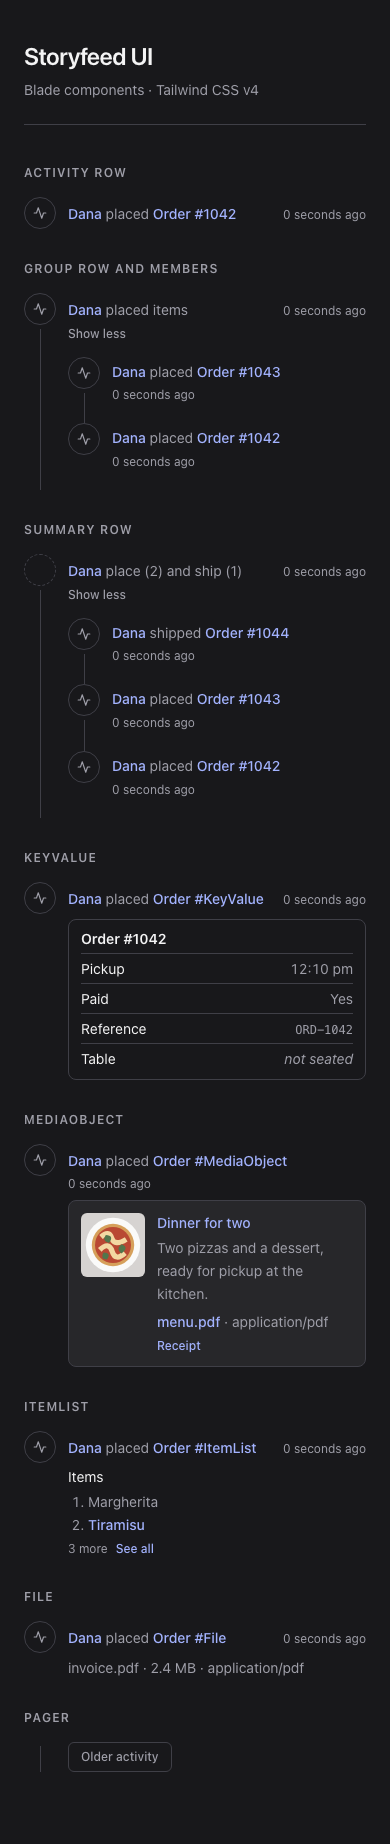
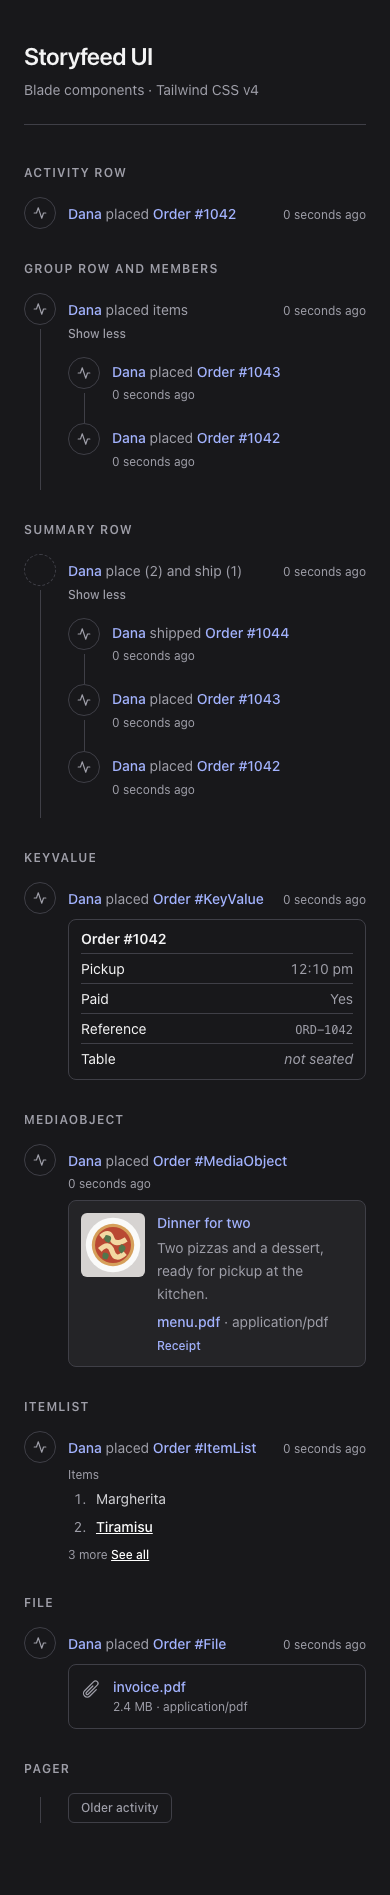
Refine Tailwind body cards and attachment rows

diff --git a/workbench/app.css b/workbench/app.css
@@ -1,3 +1,4 @@
 @import "tailwindcss" source(none);
 @source "../resources/views";
+@plugin "@tailwindcss/typography";
 @source "./page.blade.php";

diff --git a/tests/Feature/BodyTest.php b/tests/Feature/BodyTest.php
@@ -13,6 +13,7 @@ use Storyfeed\Facades\Storyfeed;
 use Storyfeed\FeedImage;
 use Storyfeed\FeedLink;
 use Storyfeed\FeedResource;
+use Storyfeed\Support\Entity;
 use Storyfeed\Support\FeedItem;
 use Storyfeed\Ui\Tests\Fixtures\Order;
 use Storyfeed\Ui\Tests\Fixtures\User;
@@ -83,10 +84,31 @@ it('draws a change as before and after', function () {
     );
 });
 
-it('draws a file\'s name, size and type, leaving out a name the headline says', function () {
+it('draws a file attachment with its resolved name link and a separate metadata line', function () {
     expect(render_bodies([File::make(2_516_582, 'application/pdf', 'invoice.pdf'), File::make(512, name: 'Order #1042')]))
-        ->toContain('<p>invoice.pdf · 2.4 MB · application/pdf</p>')
+        ->toContain('<span aria-hidden="true"><svg')
+        ->toContain('<p> <a href="/orders/1" target="_blank">invoice.pdf</a> </p>')
+        ->toContain('<p>2.4 MB · application/pdf</p>')
+        ->toContain('<p> <a href="/orders/1" target="_blank">Order #1042</a> </p>')
         ->toContain('<p>512 B</p>');
+});
+
+it('renders file names without a URL as escaped text and omits absent metadata', function () {
+    $html = render_blade('<x-storyfeed::body.file :body="$body" :entity="$entity" />', [
+        'body' => ['name' => '<invoice>.pdf', 'href' => '/not-from-the-body'],
+        'entity' => Entity::of(['label' => 'Invoice']),
+    ]);
+
+    expect($html)->toContain('<p> &lt;invoice&gt;.pdf </p>')
+        ->not->toContain('<a', '/not-from-the-body', ' · ');
+});
+
+it('uses the entity label when a file name is absent and omits a completely empty file', function () {
+    expect(render_blade('<x-storyfeed::body.file :body="$body" :entity="$entity" />', [
+        'body' => ['size' => 0],
+        'entity' => Entity::of(['label' => 'Invoice']),
+    ]))->toContain('<p> Invoice </p>', '<p>0 B</p>')
+        ->and(render_blade('<x-storyfeed::body.file :body="[]" />'))->toBe('');
 });
 
 it('draws an item list, numbered when ordered, with what was not sent', function () {
@@ -159,4 +181,10 @@ it('draws nothing for a malformed or app-owned body, and an app can add a compon
 
     expect($render())->toContain('<div data-storyfeed-body> <p>plan.pdf</p> </div>')
         ->and(substr_count($render(), 'data-storyfeed-body'))->toBe(1);
+});
+
+it('renders an unordered item list with plain list semantics', function () {
+    expect(render_bodies(ItemList::make(['Margherita', 'Tiramisu'])))
+        ->toContain('<ul> <li> Margherita </li> <li> Tiramisu </li> </ul>')
+        ->not->toContain('<ol>');
 });

diff --git a/resources/views/components/body/file.blade.php b/resources/views/components/body/file.blade.php
@@ -1,6 +1,6 @@
 {{--
-    Storyfeed/Body/File: what a file is and how big. The name is left out when
-    the headline already says it.
+    Storyfeed/Body/File: an attachment name with its size and media type.
+    The entity supplies the resolved URL; the body stores no URL.
 --}}
 @props(['body', 'entity' => null])
 
@@ -20,15 +20,30 @@
         $size = ($value >= 10 || $unit === 0 ? round($value) : number_format($value, 1)).' '.$units[$unit];
     }
 
-    $name = $body['name'] ?? null;
-
-    $parts = collect([
-        $name !== null && $name !== $entity?->label() ? $name : null,
+    $name = $body['name'] ?? $entity?->label();
+    $url = $entity?->url();
+    $details = collect([
         is_string($size) ? $size : null,
         $body['mediaType'] ?? null,
     ])->filter();
 @endphp
 
-@if ($parts->isNotEmpty())
-    <p {{ $attributes->class('m-0 text-sm text-zinc-600 dark:text-zinc-400') }}>{{ $parts->implode(' · ') }}</p>
+@if (filled($name) || $details->isNotEmpty())
+    <div {{ $attributes->class('flex max-w-sm items-start gap-3 rounded-lg border border-zinc-200 p-3 dark:border-zinc-700') }}>
+        <span class="mt-0.5 shrink-0 text-zinc-500 dark:text-zinc-400" aria-hidden="true">@include('storyfeed::icons.paper-clip')</span>
+        <div class="min-w-0 flex-1 [overflow-wrap:anywhere]">
+            @if (filled($name))
+                <p class="m-0 text-sm font-medium text-zinc-900 dark:text-zinc-100">
+                    @if ($url)
+                        <a {{ (new \Illuminate\View\ComponentAttributeBag($entity->attributes()))->merge(['href' => $url])->class('text-indigo-700 underline-offset-2 hover:underline focus-visible:outline-2 focus-visible:outline-offset-2 focus-visible:outline-indigo-500 dark:text-indigo-300') }}>{{ $name }}</a>
+                    @else
+                        {{ $name }}
+                    @endif
+                </p>
+            @endif
+            @if ($details->isNotEmpty())
+                <p class="m-0 text-xs leading-relaxed text-zinc-600 dark:text-zinc-400">{{ $details->implode(' · ') }}</p>
+            @endif
+        </div>
+    </div>
 @endif

diff --git a/resources/views/components/body/item-list.blade.php b/resources/views/components/body/item-list.blade.php
@@ -14,16 +14,16 @@
 @endphp
 
 @if ($items->isNotEmpty())
-    <figure {{ $attributes->class('m-0') }}>
+    <figure {{ $attributes->class('prose prose-sm prose-zinc dark:prose-invert') }}>
         @if (filled($body['title'] ?? null))
-            <figcaption class="mb-1 text-sm text-zinc-900 dark:text-zinc-100">{{ $body['title'] }}</figcaption>
+            <figcaption>{{ $body['title'] }}</figcaption>
         @endif
 
-        <{{ $tag }} @class(['m-0 pl-5 text-sm leading-relaxed', 'list-decimal' => $tag === 'ol', 'list-disc' => $tag === 'ul'])>
+        <{{ $tag }}>
             @foreach ($items as $item)
-                <li class="m-0">
+                <li>
                     @if (is_array($item) && filled($item['href'] ?? null))
-                        <a href="{{ $item['href'] }}" class="font-medium text-indigo-700 underline-offset-2 hover:underline focus-visible:outline-2 focus-visible:outline-offset-2 focus-visible:outline-indigo-500 dark:text-indigo-300">{{ $item['label'] }}</a>
+                        <a href="{{ $item['href'] }}">{{ $item['label'] }}</a>
                     @else
                         {{ is_string($item) ? $item : $item['label'] }}
                     @endif
@@ -32,12 +32,12 @@
         </{{ $tag }}>
 
         @if ($remaining > 0 || $more !== null)
-            <figcaption class="mt-1 flex gap-2 text-xs text-zinc-600 dark:text-zinc-400">
+            <figcaption>
                 @if ($remaining > 0)
                     <span>{{ __(':count more', ['count' => $remaining]) }}</span>
                 @endif
                 @if ($more !== null)
-                    <a href="{{ $more['href'] }}" class="font-medium text-indigo-700 underline-offset-2 hover:underline focus-visible:outline-2 focus-visible:outline-offset-2 focus-visible:outline-indigo-500 dark:text-indigo-300">{{ $more['label'] ?? $more['href'] }}</a>
+                    <a href="{{ $more['href'] }}">{{ $more['label'] ?? $more['href'] }}</a>
                 @endif
             </figcaption>
         @endif

diff --git a/resources/views/components/body/media-object.blade.php b/resources/views/components/body/media-object.blade.php
@@ -22,7 +22,7 @@
     $attachments = collect($body['attachments'] ?? [])->filter(fn ($file) => is_array($file) && filled($file['href'] ?? null));
 @endphp
 
-<div {{ $attributes->class('mt-1.5 flex min-w-0 max-w-lg items-start gap-3 rounded-lg border border-zinc-200 dark:border-zinc-700 bg-zinc-50 p-3 dark:bg-zinc-800') }}>
+<div {{ $attributes->class('mt-1.5 flex min-w-0 max-w-lg items-start gap-3 rounded-lg border border-zinc-200 dark:border-zinc-700 bg-white/60 p-3 backdrop-blur-sm dark:bg-white/5') }}>
     @if (is_array($picture))
         <div class="w-16 shrink-0 [&>div]:m-0 [&>div]:size-16 [&>div]:rounded-md"><x-storyfeed::media :image="$picture" /></div>
     @endif

diff --git a/resources/views/components/body/key-value.blade.php b/resources/views/components/body/key-value.blade.php
@@ -10,7 +10,7 @@
 @endphp
 
 @if ($rows->isNotEmpty())
-    <figure {{ $attributes->class('m-0 flex max-w-lg flex-col rounded-lg border border-zinc-200 dark:border-zinc-700 px-3 py-1.5 text-sm leading-normal') }}>
+    <figure {{ $attributes->class('m-0 flex max-w-sm flex-col rounded-lg border border-zinc-200 dark:border-zinc-700 px-3 py-1.5 text-sm leading-normal') }}>
         @if (filled($body['title'] ?? null))
             <figcaption class="border-b border-zinc-200 dark:border-zinc-700 pt-0.5 pb-1 font-semibold text-zinc-900 dark:text-zinc-100">{{ $body['title'] }}</figcaption>
         @endif

diff --git a/resources/views/icons/paper-clip.blade.php b/resources/views/icons/paper-clip.blade.php
@@ -1,0 +1,4 @@
+{{-- Heroicons paper-clip (MIT); see licenses/heroicons.txt. --}}
+<svg class="size-5" xmlns="http://www.w3.org/2000/svg" fill="none" viewBox="0 0 24 24" stroke-width="1.5" stroke="currentColor" aria-hidden="true">
+  <path stroke-linecap="round" stroke-linejoin="round" d="m18.375 12.739-7.693 7.693a4.5 4.5 0 0 1-6.364-6.364l10.94-10.94A3 3 0 1 1 19.5 7.372L8.552 18.32m.009-.01-.01.01m5.699-9.941-7.81 7.81a1.5 1.5 0 0 0 2.112 2.13"/>
+</svg>

diff --git a/README.md b/README.md
@@ -35,11 +35,18 @@ composer require storyfeed/ui
 
 The service provider registers itself through package discovery.
 
-Storyfeed UI uses Tailwind CSS v4. Add the package's views to the sources in
-your application's `resources/css/app.css` file:
+Storyfeed UI uses Tailwind CSS v4 and its Typography plugin. Install the plugin:
+
+```bash
+npm install -D @tailwindcss/typography
+```
+
+Register the plugin and the package's views in your application's
+`resources/css/app.css` file:
 
 ```css
 @source "../../vendor/storyfeed/ui/resources/views";
+@plugin "@tailwindcss/typography";
 ```
 
 Compile your application's CSS with `npm run build`. Your layout must load
@@ -105,7 +112,8 @@ and indigo for links. To change these styles, publish the views and edit their
 utility classes. You may also customize Tailwind's existing theme variables,
 such as `--color-indigo-700` and `--color-indigo-300`, in your application's
 `@theme` block. These changes apply to every component using those colours.
-The kit defines no additional theme variables.
+The kit defines no additional theme variables. Item lists use the Typography
+plugin's `prose` defaults.
 
 The components include `dark:` variants and follow your application's
 [Tailwind dark mode configuration](https://tailwindcss.com/docs/dark-mode).
@@ -142,3 +150,8 @@ The kit's own words, such as "Older activity" and "Show all :count", are plain
 ## Licence
 
 MIT. See [LICENSE.md](LICENSE.md).
+
+The paperclip icon is from [Heroicons](https://github.com/tailwindlabs/heroicons),
+copyright Tailwind Labs, Inc., used under the MIT licence. The full notice is
+included in [licenses/heroicons.txt](licenses/heroicons.txt). The attachment row
+layout is original work.

diff --git a/workbench/README.md b/workbench/README.md
@@ -1,6 +1,6 @@
 # Tailwind Workbench
 
-Render the package's Blade components inside Testbench and compile their Tailwind CSS:
+Render the package's Blade components inside Testbench and compile their Tailwind CSS with the Typography plugin:
 
 ```bash
 composer install
@@ -14,6 +14,6 @@ The page is written to `build/workbench/index.html`. The screenshot command star
 
 The page uses Tailwind's default media-query dark mode. Applications may configure their own `dark` variant. No compiled CSS ships with the package. Workbench files and Node tooling are excluded from Composer distribution archives.
 
-The layout and sample SVG are original work. No Tailwind Plus markup, templates, or class lists were used.
+The layout and sample meal SVG are original work. The paperclip icon is from Heroicons (MIT); see the root README and `licenses/heroicons.txt`. No Tailwind Plus markup, templates, or class lists were used.
 
 Stable selectors are `data-sf-intent` and `data-sf-glyph` on icons, `data-storyfeed-body` on a rendered body wrapper, and `data-storyfeed-summary` on a summary row. There are no `sf-*` hook classes. The inline aspect ratio on media comes from the image dimensions; all static presentation uses Tailwind utilities.
